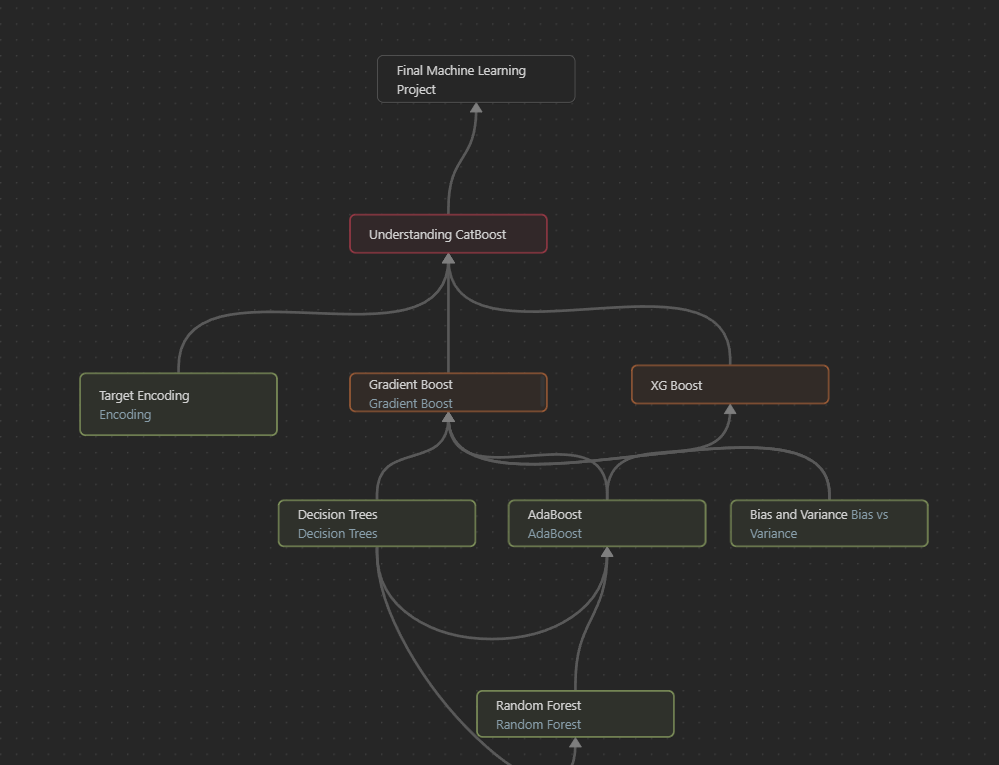
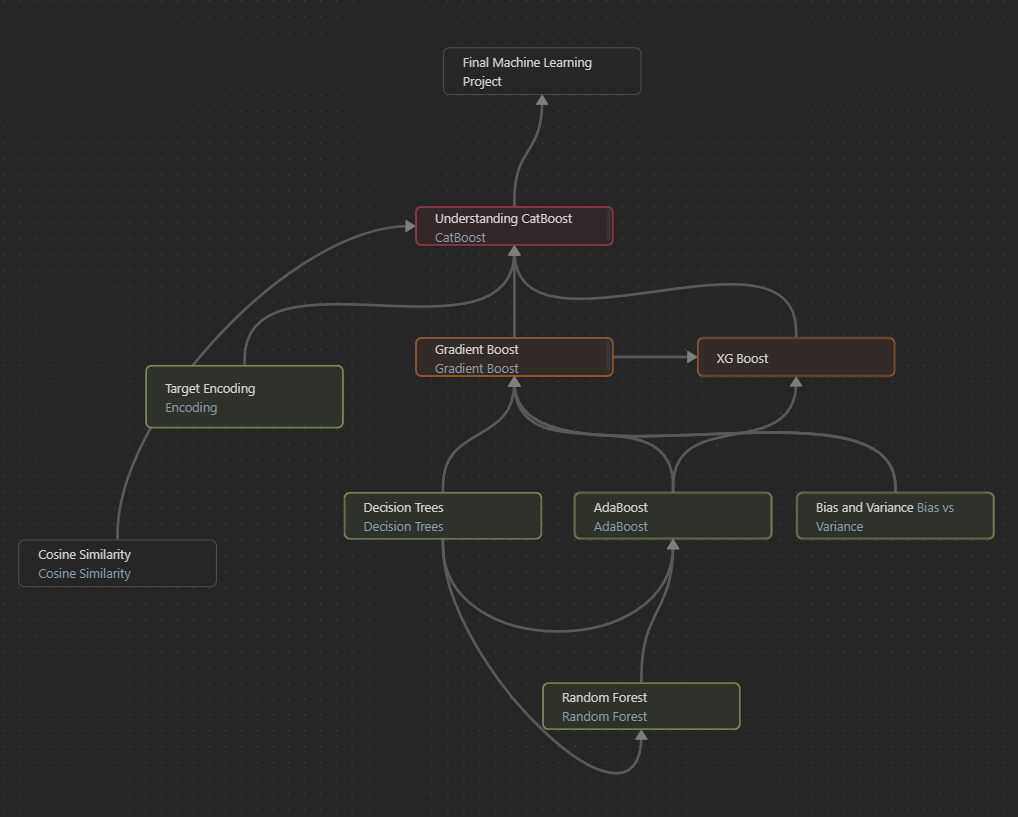
Quartz sync: Oct 2, 2024, 9:39 PM

diff --git a/content/Projects.md b/content/Projects.md
@@ -1,8 +1,7 @@
 ---
 title: Projects
 draft: false
-tags:
-  - example-tag
+tags: []
 ---
 ## Background
 
@@ -18,11 +17,13 @@ Below is a high level overview of external projects and academic endeavours I ha
 
 
 ### Summary
-The goal of this project was to model and identify the optimal areas to live in Cape Town, considering both work location and various quality-of-life factors sourced from census data.
+The objective of this project is to model and identify optimal living areas in Cape Town by considering both work location and various quality-of-life factors derived from census data.
 
-The model allows users to input their work location, which is then processed through the Google Maps API to calculate commute times to and from work for each suburb in Cape Town. This commuting data is integrated with a broader dataset that evaluates the quality of life in each postal code, using information scraped from government websites and South African Census data.
+Users can input their work location, which is then processed using the Google Maps API to calculate commute times to and from each suburb in Cape Town. This commuting data is integrated with a comprehensive dataset evaluating the quality of life across different postal codes, utilizing information gathered from government websites and South African Census data.
 
-The results are presented through a geospatial visualization built in Power BI, enabling users to easily identify the best areas to live based on their personal needs and preferences.
+The findings are presented through a geospatial visualization created in Power BI, enabling users to easily identify the most suitable areas to live based on their individual needs and preferences.
+
+This project draws inspiration from the work of [Lloyd Richards](https://www.linkedin.com/posts/lloydrichards_moving-house-like-an-actuary-collect-data-activity-7188109495196135424-g52l?utm_source=share&utm_medium=member_desktop), who effectively illustrated the application of data modeling in the context of real estate decisions.
 
 ### Technologies Used
 - Python
@@ -44,11 +45,13 @@ The results are presented through a geospatial visualization built in Power BI, 
 
 ### Summary
 
-This project marked my journey from having no prior experience to completing my first-ever machine learning project. I set an end goal of performing churn analysis on a publicly available telecommunications dataset and worked backward to identify the various aspects of statistics and coding I needed to learn along the way.
+This project marked my journey from having no prior experience to completing my first-ever machine learning project. Inspired by the article _[End-to-End Machine Learning Project: Churn Prediction](https://medium.com/@ramazanolmeez/end-to-end-machine-learning-project-churn-prediction-e9c4d0322ac9)_ by Ramazan Olmez, I set an end goal of performing churn analysis on a publicly available telecommunications dataset. I then worked backward to identify the various aspects of statistics and coding I needed to learn along the way.
 
-To organize my learning, I created a flow diagram outlining each key concept and skill, and I documented my notes for every stage. These notes cover the foundations of machine learning, statistics, and coding—designed not only to guide my own learning but also to help others who are eager to move beyond the hype and actually build their first machine learning project.
+To organize my learning, I created a flow diagram outlining each key concept and skill. I documented my notes for every stage, covering the foundations of machine learning, statistics, and coding. These notes were designed not only to guide my own learning but also to help others eager to move beyond the hype and actually build their first machine learning project.
 
-The primary goal was to complete the churn analysis, but the project also aimed to serve as a practical resource for anyone looking to get started in machine learning.
+Throughout my journey, I found valuable resources, including Josh Starmer's _Stats Quest_ videos on YouTube, which clarified many complex topics, and the article _[Gradient Boosting Algorithm: A Complete Guide for Beginners](https://www.analyticsvidhya.com/blog/2021/09/gradient-boosting-algorithm-a-complete-guide-for-beginners/)_ by Anshul Saini, which provided essential insights into one of the key algorithms I explored.
+
+While the primary goal was to complete the churn analysis, this project also serves as a practical resource for anyone looking to get started in machine learning.
 
 ### Technologies Used
 - Python
@@ -64,3 +67,5 @@ The primary goal was to complete the churn analysis, but the project also aimed 
 5. [[Projects Folder/Machine Learning/Random Forest]]
 6. [[Projects Folder/Machine Learning/AdaBoost]]
 7. [[Projects Folder/Machine Learning/Gradient Boost]]
+8. [[Cosine Similarity]]
+9. [[CatBoost]]

diff --git a/content/Projects Folder/Machine Learning/Cosine Similarity.md b/content/Projects Folder/Machine Learning/Cosine Similarity.md
@@ -1,0 +1,120 @@
+## Summary
+
+Cosine similarity is a statistical measure to calculate the similarity between two discrete values
+
+
+-------------------------------------------------------------------
+## Related Sections/Pre-Reading
+
+N/A
+
+-------------------------------------------------------------------
+## Content
+
+Let’s say you have two documents with the following word counts (vectors):
+
+- **Document A**: [3 apples, 0 oranges, 2 bananas]
+- **Document B**: [1 apple, 1 orange, 1 banana]
+
+We can think of each document as a point in 3D space (the dimensions are apples, oranges, and bananas).
+
+- Document A is at point (3, 0, 2) because it has 3 apples, 0 oranges, and 2 bananas.
+- Document B is at point (1, 1, 1) because it has 1 apple, 1 orange, and 1 banana.
+
+Now, to find how similar these documents are, cosine similarity calculates the angle between their directions. If they point in the same direction, they’re similar. If they point in different directions, they’re not.
+
+Without going into math details, the cosine similarity for these two documents will be a number between 0 and 1:
+
+- **1** means they’re pointing in exactly the same direction (very similar).
+- **0** means they’re not related at all.
+
+In this case, the cosine similarity would be a value closer to 1, meaning the documents are fairly similar because both mention apples and bananas (though Document B also mentions oranges).
+
+### Example
+Let's calculate the cosine similarity for **Document A** and **Document B** step by step using their word counts as vectors.
+
+### Step 1: Represent the Documents as Vectors
+
+We have the word counts for apples, oranges, and bananas:
+
+- **Document A (Vector A)**: [3, 0, 2]  
+    (3 apples, 0 oranges, 2 bananas)
+    
+- **Document B (Vector B)**: [1, 1, 1]  
+    (1 apple, 1 orange, 1 banana)
+    
+
+### Step 2: Apply the Cosine Similarity Formula
+
+The formula for cosine similarity is:
+
+$$
+
+\text{Cosine Similarity} = \frac{A \cdot B}{\|A\| \|B\|}
+
+$$
+
+Where:
+
+- A.B is the **dot product** of the two vectors.
+- ∥A∥B∥ are the **magnitudes** (lengths) of the vectors.
+
+#### Step 3: Calculate the Dot Product A.B
+
+The dot product is calculated by multiplying the corresponding elements of the two vectors and then summing them up:
+
+$$
+
+A \cdot B = (3 \times 1) + (0 \times 1) + (2 \times 1)
+$$
+$$
+A \cdot B = 3 + 0 + 2 = 5
+
+
+$$
+
+#### Step 4: Calculate the Magnitude of Each Vector
+
+The magnitude of a vector ∥A∥∥ is calculated using this formula:
+
+$$
+
+\|A\| = \sqrt{(a_1^2 + a_2^2 + a_3^2)}
+
+
+$$
+
+
+For **Vector A [3, 0, 2]**:
+
+$$
+\|A\| = \sqrt{(3^2 + 0^2 + 2^2)} = \sqrt{(9 + 0 + 4)} = \sqrt{13} \approx 3.605
+
+
+$$
+
+For **Vector B [1, 1, 1]**:
+
+$$
+
+\|B\| = \sqrt{(1^2 + 1^2 + 1^2)} = \sqrt{(1 + 1 + 1)} = \sqrt{3} \approx 1.732
+
+
+$$
+
+#### Step 5: Calculate the Cosine Similarity
+
+Now, plug the dot product and magnitudes into the formula:
+
+$$
+
+
+\text{Cosine Similarity} = \frac{5}{(3.605 \times 1.732)}
+$$
+$$
+
+
+\text{Cosine Similarity} = \frac{5}{6.245} \approx 0.801
+
+
+$$

diff --git a/content/Projects Folder/Machine Learning/CatBoost.md b/content/Projects Folder/Machine Learning/CatBoost.md
@@ -1,0 +1,23 @@
+## Summary
+
+**CatBoost** (short for "Categorical Boosting") is a machine learning algorithm developed by Yandex, primarily designed for handling **categorical data**. It is an implementation of **gradient boosting** and is often used for classification and regression tasks.
+
+-------------------------------------------------------------------
+## Related Sections/Pre-Reading
+
+- [[Decision Trees]]
+- [[Classification Trees]]
+- [[Bias vs Variance]]
+- [[Encoding]]
+- [[Random Forest]]
+- [[AdaBoost]]
+- [[Gradient Boost]]
+
+-------------------------------------------------------------------
+## Content
+
+I won't go into detail as to the maths of the categorical boosting model but rather the key principles of it.
+
+Cat boosting uses a fancier version of target encoding to encode all discrete features within a dataset, then performs gradient boosting techniques to minimise the loss on sequentially generated weak learners to end up with an overall model
+
+I highly recommend watching Josh Starmer's video on it for a detailed explanation as he does it better than I could ever.  [Link](https://www.youtube.com/watch?v=KXOTSkPL2X4)

diff --git a/content/index.md b/content/index.md
@@ -1,9 +1,8 @@
 ---
 title: Welcome to my Homepage
-aliases:
+aliases: 
 draft: false
-tags:
-  - example-tag
+tags: []
 ---
 
 
@@ -26,7 +25,11 @@ Thanks for visiting my page. I am Shailen Desai, a 25 years old soon to be quali
 
 **Current Occupation:** Audit Associate (EY),   
 
-[[Academic History and Work Experience]]
+**Academic and Work Experience:** [[Academic History and Work Experience|Link]]
+
+**Projects**: [[Projects|Link]]
+
+
 
 ![[me.jpg]]
 
@@ -34,11 +37,11 @@ Thanks for visiting my page. I am Shailen Desai, a 25 years old soon to be quali
 
 Feel free to reach me:
 
-![[gmail_logo.png|13]]**Email**: shailendesai123@gmail.com
+![[gmail_logo.png|13]] **Email**: shailendesai123@gmail.com
 
-![[linkedin_logo.png|13]]**LinkedIn**:  [LinkedIn Link](https://www.linkedin.com/in/shailen-d-572300120/)
+![[linkedin_logo.png|25x25]]**LinkedIn**:  [LinkedIn Link](https://www.linkedin.com/in/shailen-d-572300120/)
 
-![[instagram_logo.png|13]]**Instagram:** @shailendesai123
+![[instagram_logo.png|25x25]]**Instagram:** @shailendesai123
 
 
 

diff --git a/content/Projects Folder/Machine Learning/Decision Trees.md b/content/Projects Folder/Machine Learning/Decision Trees.md
@@ -2,7 +2,7 @@
 
 Definition: A decision tree makes a statement, and then makes a decision based on whether that statement is true or false.
 
-	![[Assets/Decision_Tree_Example.png]]
+	![[Decision_Tree_Example.png]]
 ### Types of decision trees
 There are namely two types of decision trees
 	1. [[Classification Trees]] - classifies things into categories. for example above
